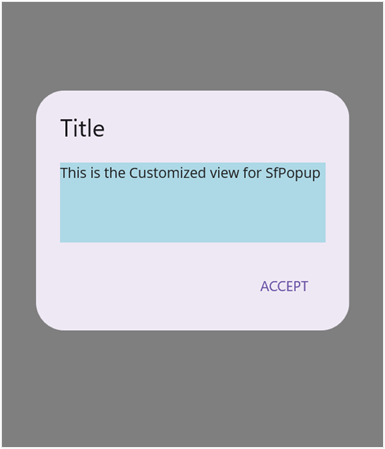
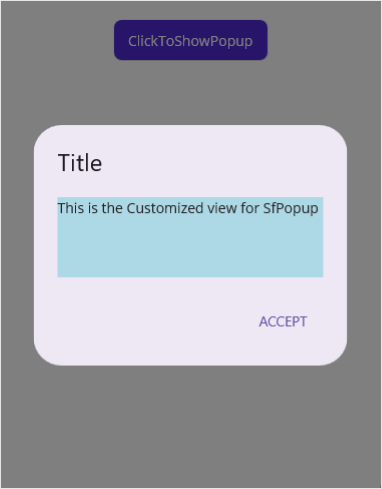
Added code snippet for appearance mode

diff --git a/MAUI/Popup/getting-started.md b/MAUI/Popup/getting-started.md
@@ -105,7 +105,7 @@ Refer to the following code example for displaying popup.
 
 {% endhighlight %}
 
-{% highlight c# tabtitle="MainPage.xaml.cs" %}
+{% highlight c# tabtitle="MainPage.xaml.cs" hl_lines="18" %}
 
 using Syncfusion.Maui.Popup;
 
@@ -158,13 +158,66 @@ By default, you can choose a layout from the following available layouts in the 
 
 You can also customize the entire view of the popup by loading the templates or custom views for the header, body, and footer.
 
+Refer to the following code example for displaying popup with appearance mode.
+
+{% tabs %}
+
+{% highlight xaml tabtitle="MainPage.xaml" hl_lines="12" %}
+
+<?xml version="1.0" encoding="utf-8" ?>
+<ContentPage xmlns="http://schemas.microsoft.com/dotnet/2021/maui"
+             xmlns:x="http://schemas.microsoft.com/winfx/2009/xaml"
+             xmlns:local="clr-namespace:GettingStarted"
+             x:Class="GettingStarted.MainPage" 
+             Padding="0,40,0,0">
+     <StackLayout x:Name="mainLayout">
+       <Button x:Name="clickToShowPopup" Text="ClickToShowPopup" 
+               VerticalOptions="Start" HorizontalOptions="FillAndExpand"
+               Clicked="ClickToShowPopup_Clicked" />
+        <popup:SfPopup x:Name="popup"  ShowFooter="True" AppearanceMode="TwoButton"/>
+     </StackLayout>
+</ContentPage>
+
+{% endhighlight %}
+
+{% highlight c# tabtitle="MainPage.xaml.cs" hl_lines="14 15" %}
+
+using Syncfusion.Maui.Popup;
+
+namespace GettingStarted
+{
+    public partial class MainPage : ContentPage
+    {
+        SfPopup popup;
+
+        public MainPage()
+        {
+            InitializeComponent();
+            popup = new SfPopup();
+            popup.ShowFooter = true;
+            popup.AppearanceMode = Syncfusion.Maui.Popup.PopupButtonAppearanceMode.TwoButton;
+        }
+
+        private void ClickToShowPopup_Clicked(object sender, EventArgs e)
+        {
+            popup.Show();
+        }
+    }
+}
+
+{% endhighlight %}
+
+{% endtabs %}
+
+![Popup with Appearance Mode](Images/getting-started//maui-popup-with-appearance-mode.png)
+
 ###  Load your template view in the popup body
 
 Any view can be added as popup content by using the `SfPopup.ContentTemplate` property to refresh it. Refer to the following code example in which a label is added as a popup content. 
 
 {% tabs %}
 
-{% highlight xaml tabtitle="MainPage.xaml" %}
+{% highlight xaml tabtitle="MainPage.xaml" hl_lines="16" %}
 
 <?xml version="1.0" encoding="utf-8" ?>
 <ContentPage xmlns="http://xamarin.com/schemas/2014/forms"
@@ -193,7 +246,7 @@ Any view can be added as popup content by using the `SfPopup.ContentTemplate` pr
 
 {% endhighlight %}
 
-{% highlight c# tabtitle="MainPage.xaml.cs" %}
+{% highlight c# tabtitle="MainPage.xaml.cs" hl_lines="24"%}
 
 using Syncfusion.Maui.Popup;
 
